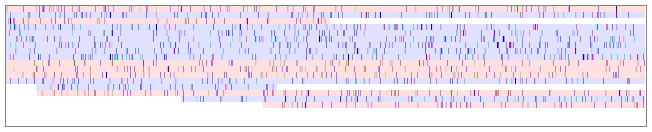
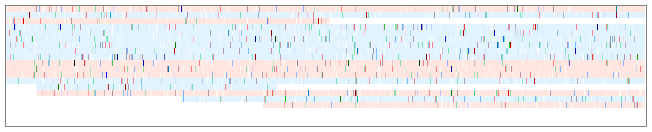
update readme

diff --git a/README.md b/README.md
@@ -7,7 +7,10 @@
 ```Rust
 /* prepare scaler and color palette (10 columns (bases) per pixel) */
 let scaler = UdonScaler::new(&UdonPalette::default(), 10.0);
-let base_color: [[u8; 4]; 2] = [[255, 191, 191, 0], [191, 191, 255, 0]];
+let base_color: [[[u8; 4]; 2]; 2] = [
+	[[255, 202, 191, 255], [255, 255, 255, 255]],
+	[[191, 228, 255, 255], [255, 255, 255, 255]]
+];
 
 /* for each alignment... */
 let mut record = Record::new();
@@ -27,7 +30,7 @@ while let Ok(true) = reader.read_into(&mut record) {
 	/* put forward / reverse color then apply gamma correction */
 	ribbon.append_on_basecolor(base_color[record.flag().is_reverse_strand() as usize]).correct_gamma();
 
-	/* here we obtained alignment ribbon in RGBa8 format */
+	/* here we obtained alignment ribbon in [RGBa8; 2] (= [[u8; 4]; 2]) array */
 	do_something_with(ribbon);
 }
 ```
@@ -40,7 +43,7 @@ Pileups with different scales, drawn by [ribbon.rs](https://github.com/ocxtal/ud
 
 ![15.625 columns / pixel](./fig/example.10000.png)
 
-*Figure1: 100 (top), 1000 (middle), 10000 (bottom) columns per 640 pixels.*
+*Figure1: 100 (top), 1000 (middle), and 10000 (bottom) columns per 640 pixels.*
 
 ## Requirements
 
@@ -74,9 +77,11 @@ Returns reference side span, excluding soft- and hard-clips at the both ends.
 ### Decode
 
 ```rust
+pub type UdonColorPair = [[u8; 4]; 2];	/* [(r, g, b, alpha); 2] */
+
 impl<'o> Udon<'o> {
 	pub fn decode_raw(&self, ref_range: &Range<usize>) -> Option<Vec<u8>>;
-	pub fn decode_scaled(&self, ref_range: &Range<usize>, offset_in_pixels: f64, scaler: &UdonScaler) -> Option<Vec<u32>>;
+	pub fn decode_scaled(&self, ref_range: &Range<usize>, offset_in_pixels: f64, scaler: &UdonScaler) -> Option<Vec<UdonColorPair>>;
 }
 ```
 
@@ -87,20 +92,22 @@ Decode udon into an array of columns or an alignment ribbon. `decode_raw` does t
 #### Color handling in scaled decoder
 
 ```rust
+pub type UdonColorPair = [[u8; 4]; 2];	/* [(r, g, b, alpha); 2] */
+
 pub struct UdonPalette {
-	/* all in (r, g, b, unused) form */
-	background:  [u8; 4],
-	del: [u8; 4],
-	ins: [u8; 4],
-	mismatch: [[u8; 4]; 4]
+	/* all in [(r, g, b, alpha); 2] form; the larger alpha value, the more transparent */
+	background:  UdonColorPair,
+	del: UdonColorPair,
+	ins: UdonColorPair,
+	mismatch: [UdonColorPair; 4]
 }
 
 impl UdonScaler {
 	pub fn new(color: &UdonPalette, columns_per_pixel: f64) -> UdonScaler;
 }
 
-impl UdonUtils for [u32] {
-	fn append_on_basecolor(&mut self, basecolor: [u8; 4]) -> &mut Self;
+impl UdonUtils for [UdonColorPair] {
+	fn append_on_basecolor(&mut self, basecolor: UdonColorPair) -> &mut Self;
 	fn correct_gamma(&mut self) -> &mut Self;
 }
 ```
@@ -151,6 +158,20 @@ Since the two procedures are independent, they are executed without waiting for 
 ### Scaled decompression
 
 Scaling of alignment ribbon is essential for visualization. Udon provides unified decomression-and-scaling API that require no external intermediate buffer. The implementation is quite straightforward; it divides the queried range into multiple constant-length subranges (16 KB by default), and apply decompression and scaling procedures one by one using a single intermediate buffer. The default subrange length was determined so that the buffer won't spill out of the last-level (L3) data cache. Everything done on L3 cache, the conversion throughput won't be impaired.
+
+## Benchmark
+
+`todo!();`
+
+## FAQ
+
+### Can Udon change color for a particular motif?
+
+Currently No. One reason is that Udon itself omits information of reference-side bases, though it's stored in the MD string. If a motif can be detected only from mismatched bases, it's possible on decoding. However, such functionality is not implemented yet.
+
+It might be possible to implement an auxilialy data structure, motif array, for conditional colorization. It should be an array of the reference-side sequence, where motif sequence is stored as is and the others are cleared. The motif array is compared to the decoded udon stream, and "modification" flag is set for a series of columns that have a specific match-mismatch pattern. The detected motif region can be colored differently, by extending the `UdonPalette` and `UdonScaler` to treat the modification flag properly.
+
+*(I would appreciate if anyone implement this feature.)*
 
 ## First impression on writing SIMD codes in Rust (2020/9)
 
